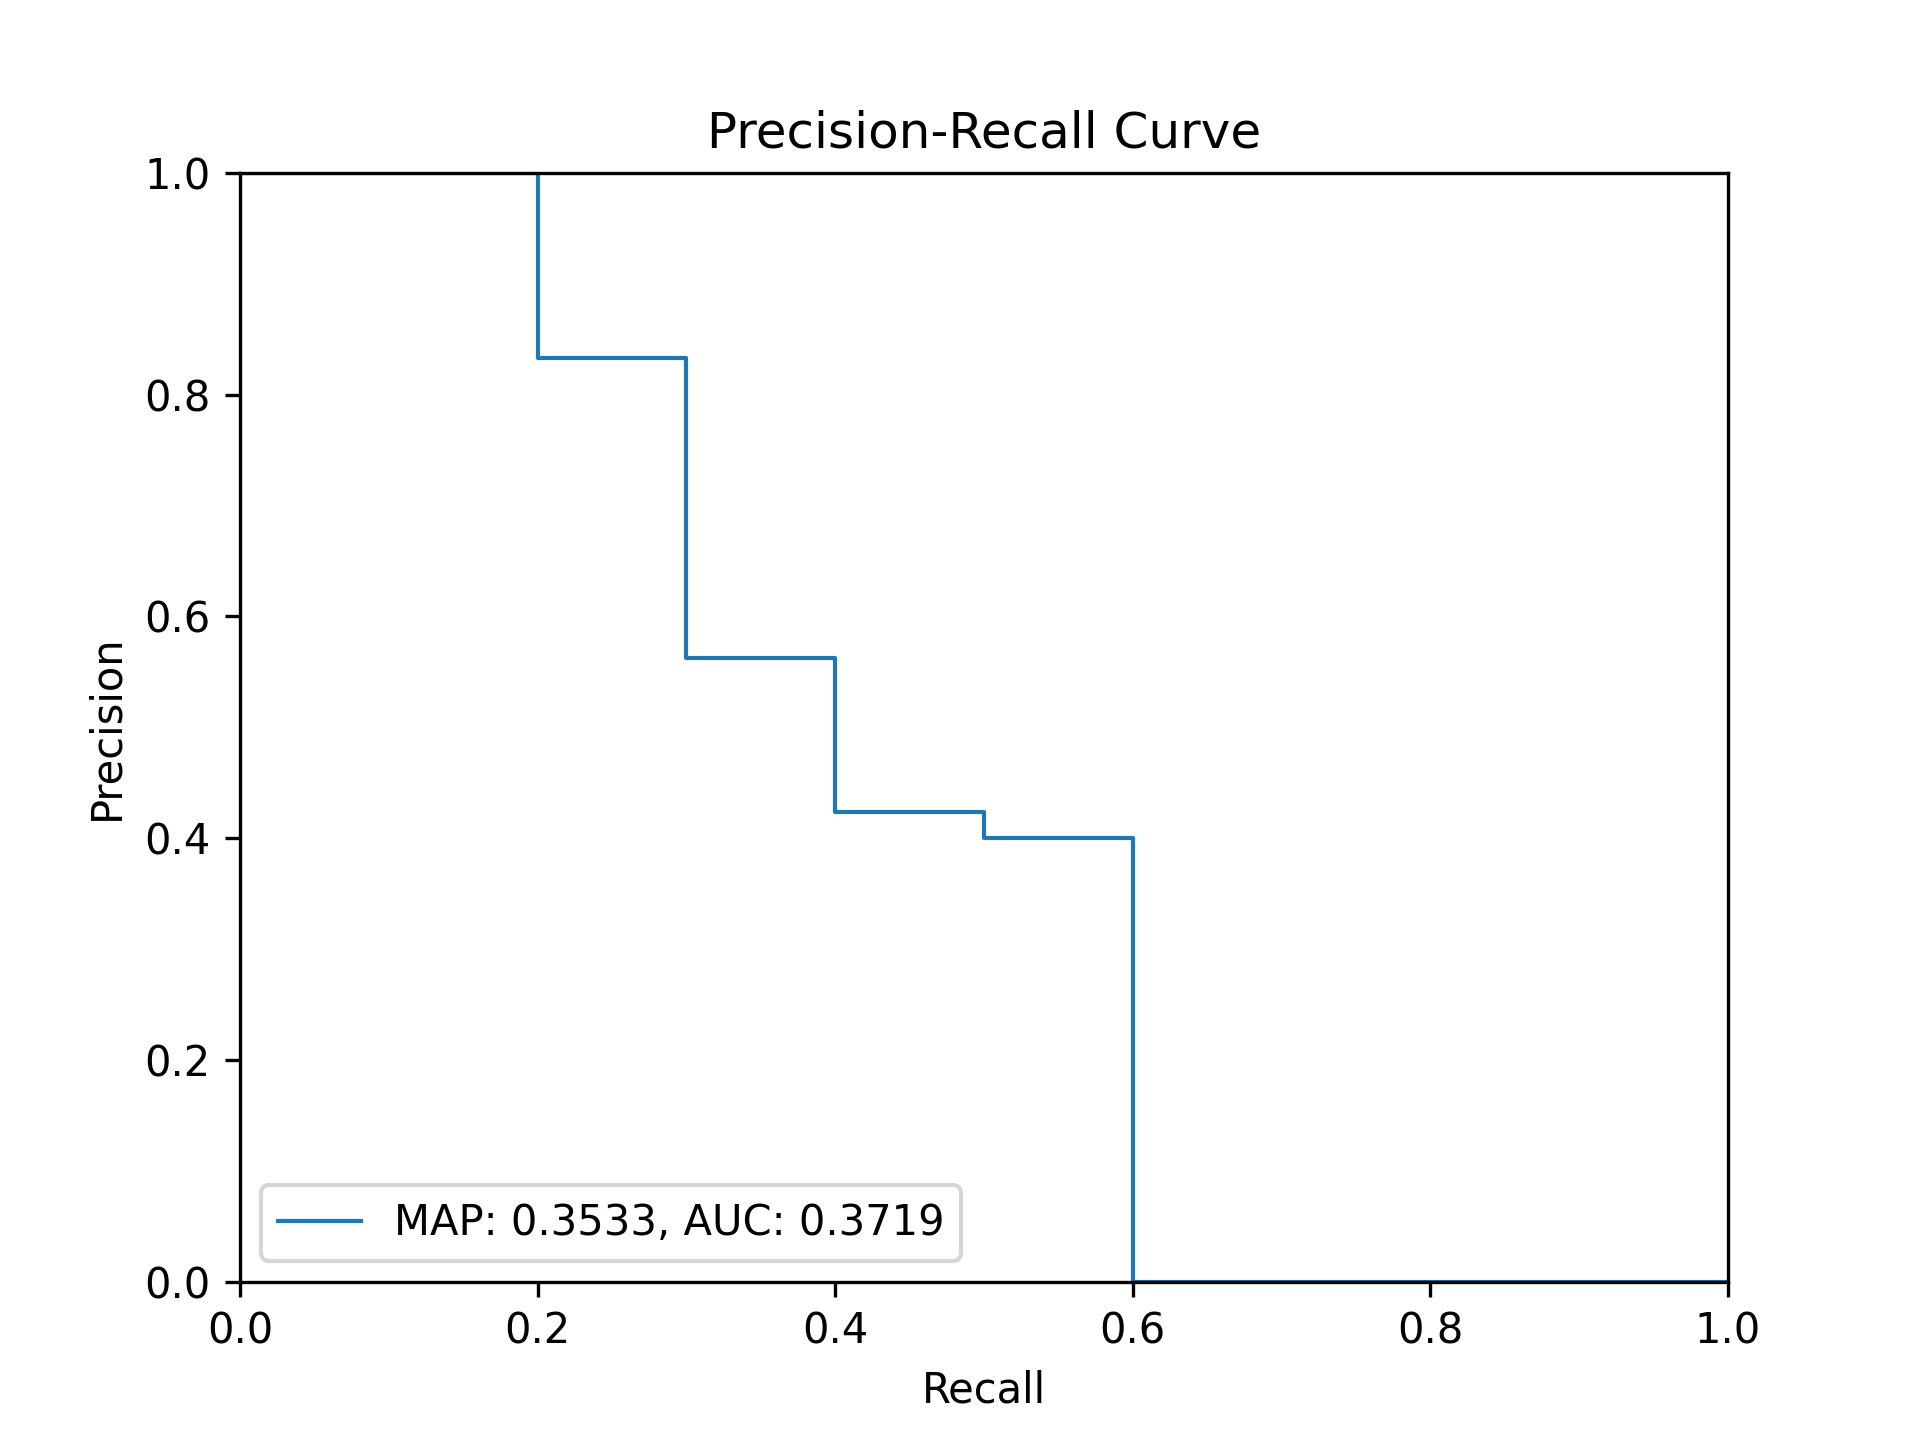
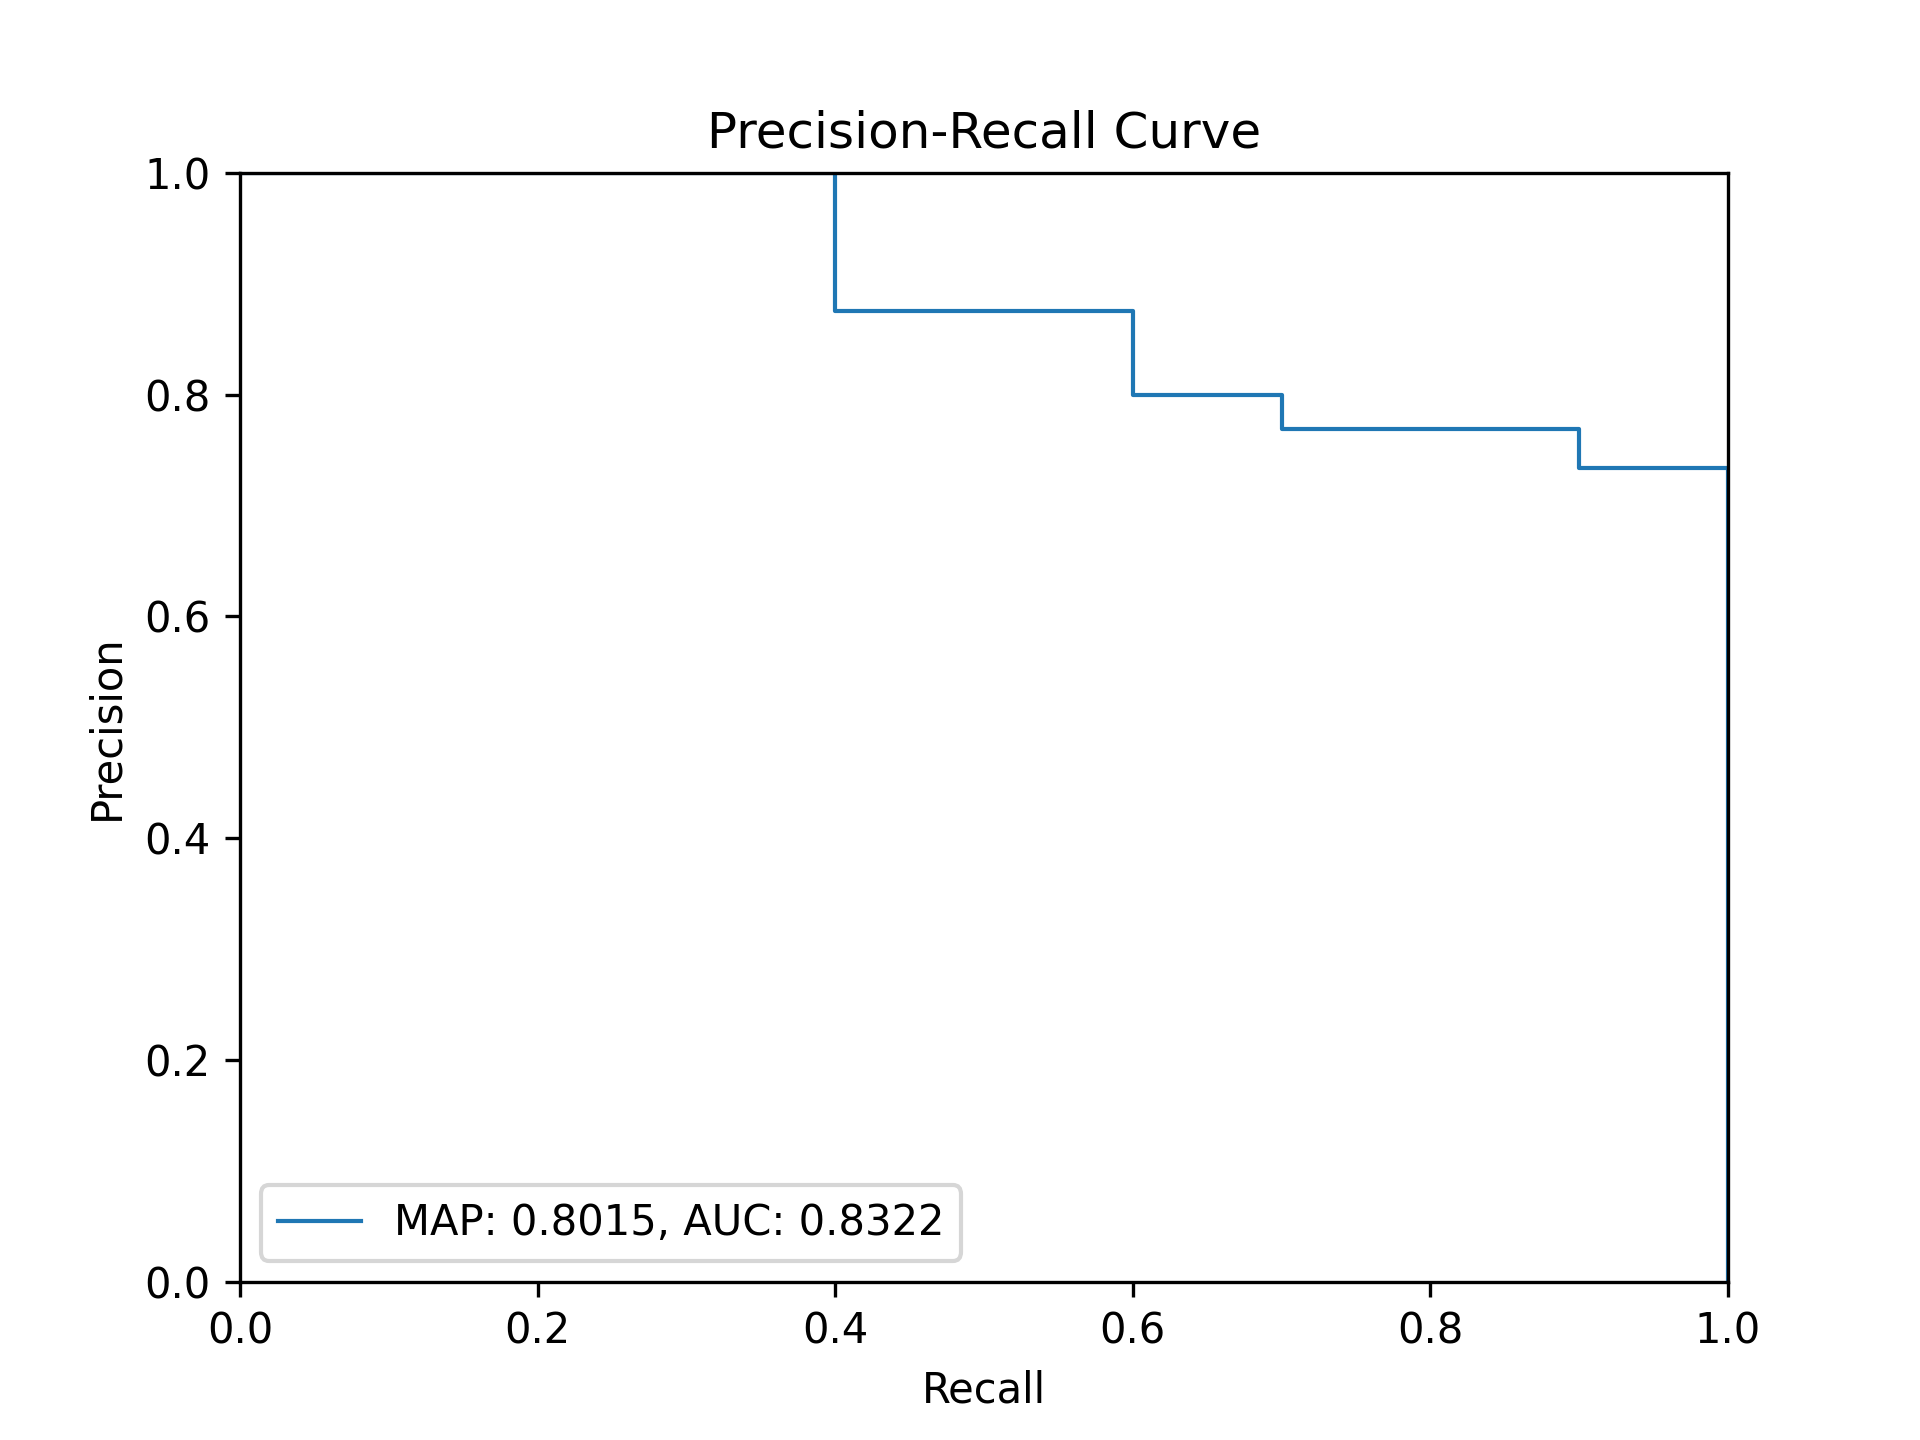
new graphs

diff --git a/m2/evaluation/merge_eval_trec.py b/m2/evaluation/merge_eval_trec.py
@@ -17,6 +17,7 @@ with open(args.qrel_file_txt, 'r') as qrel1:
     qrel_lines = qrel1.readlines();
     with open(args.qrel_file2_txt, 'r') as qrel2:
         qrel_lines2 = qrel2.readlines();
+        qrel_lines2.append("\n");
         with open(args.output_merged_qrels_txt, 'w') as output_qrel:
             for line in qrel_lines:
                 if line not in qrel_lines2:
